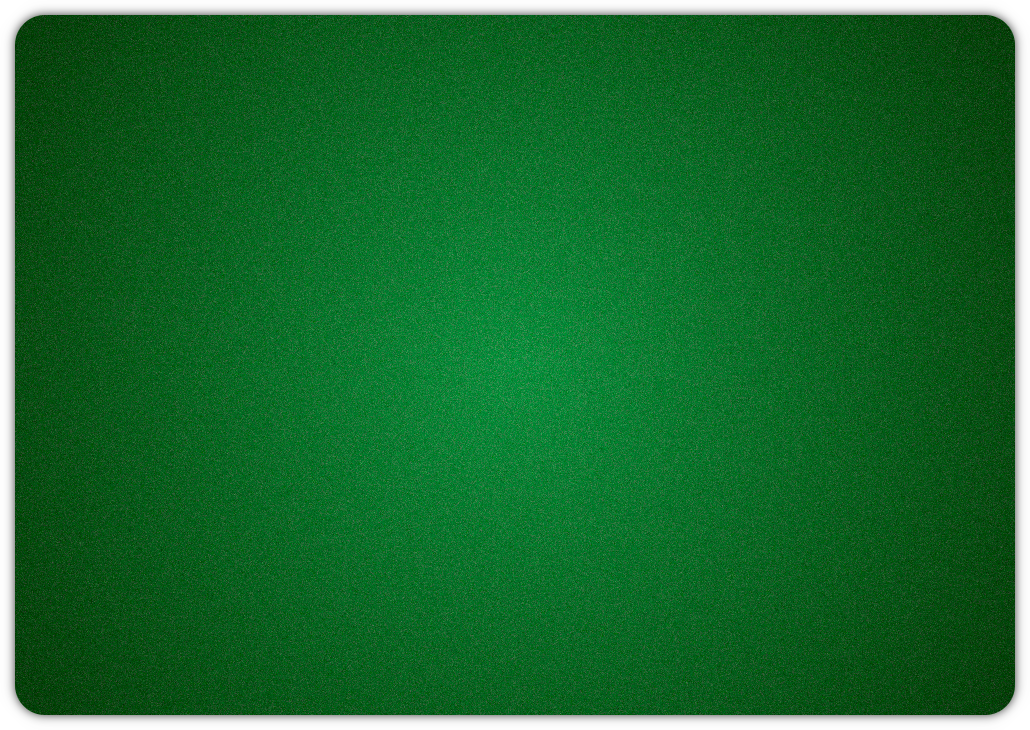
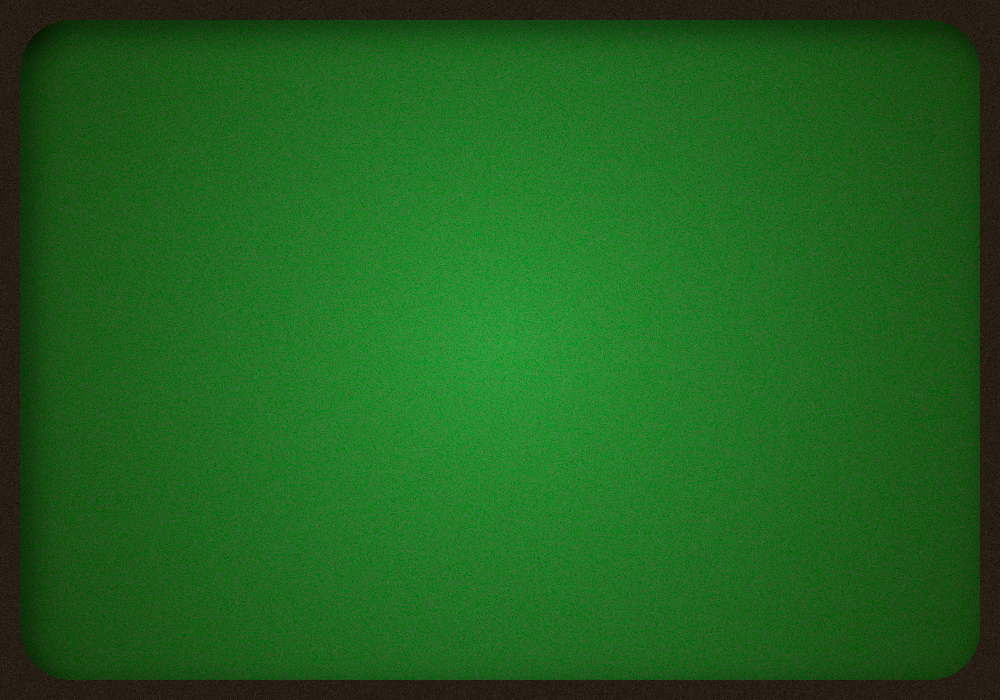
edited game board image

diff --git a/src/main/java/client/FxController.java b/src/main/java/client/FxController.java
@@ -65,7 +65,7 @@ public class FxController {
                     gameRoot = FXMLLoader.load(getClass().getResource("/client/gui/game.fxml"));
                     game.setTitle("Mau Mau");
 
-                    Scene gameScene = new Scene(gameRoot, 1030, 730);
+                    Scene gameScene = new Scene(gameRoot, 1000, 700);
                     gameScene.getStylesheets().add(getClass().getResource("/client/style/gameStyle.css").toExternalForm());
 
                     game.setScene(gameScene);
